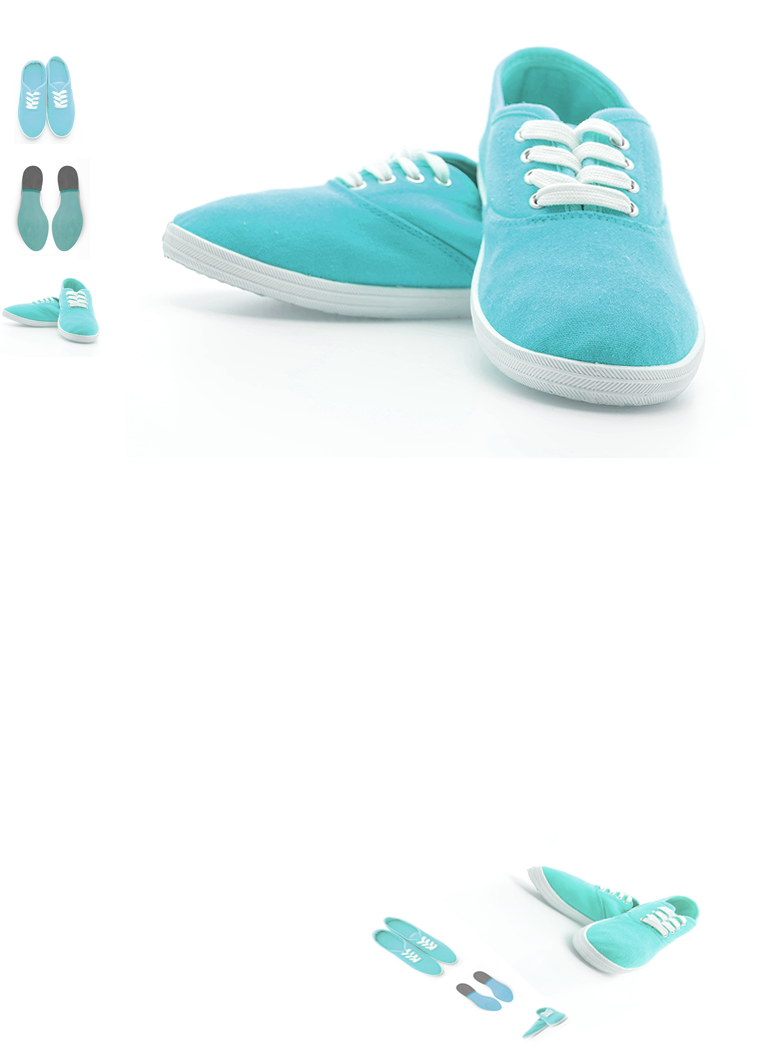
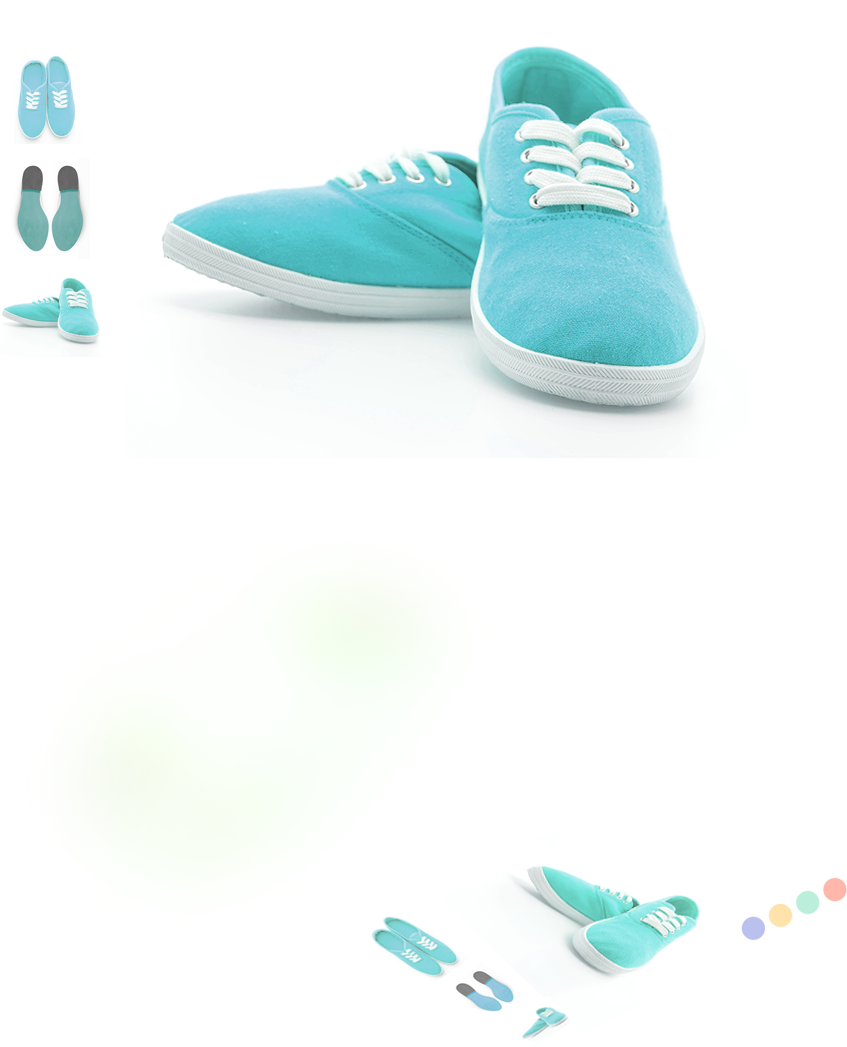
sneakers module nice

diff --git a/assets/js/app.js b/assets/js/app.js
@@ -3,6 +3,8 @@ var colorChangeButton = document.getElementsByClassName('colorChangeButton');
 
 for (var i = 0; i < colorChangeButton.length; i++) {
   colorChangeButton[i].addEventListener('click',(e)=>{
+    stopInter();
+    colorChangeBGautoFun(e);
     for (var i = 0; i < coloredWatches.length; i++) {
       coloredWatches[i].style.opacity = '0';
     };
@@ -13,24 +15,47 @@ for (var i = 0; i < colorChangeButton.length; i++) {
 
 
 var iterWatch = 0;
-setInterval(function () {
-  for (var i = 0; i < coloredWatches.length; i++) {
-    coloredWatches[i].style.opacity = '0';
-  };
-  coloredWatches[iterWatch % 4].style.opacity = '1';
-  colorChangeBGautoFun();
-  iterWatch++;
-}, 2000);
+var intVar;
+function startInter() {
+  intVar =
+  setInterval(function () {
+    for (var i = 0; i < coloredWatches.length; i++) {
+      coloredWatches[i].style.opacity = '0';
+    };
+    coloredWatches[iterWatch % 4].style.opacity = '1';
+    colorChangeBGautoFun();
+    iterWatch++;
+  }, 2000);
+}
+
+var myStopIter;
+function stopInter() {
+  clearInterval(intVar);
+  clearTimeout(myStopIter);
+  myStopIter =
+  setTimeout(function () {
+    startInter();
+  }, 1500);
+}
+
+startInter();
 
 
 // colorChangeBG
 var colorChangeBG = document.getElementsByClassName('colorChangeBG');
 
-function colorChangeBGautoFun() {
+function colorChangeBGautoFun(e) {
   for (var i = 0; i < colorChangeBG.length; i++) {
-    colorChangeBG[i].style.left = '-3vw';
-    colorChangeBG[i].style.top = '-3vw';
+    colorChangeButton[i].style.transform = 'scale(1)';
+    colorChangeButton[i].style.border = '0px solid gray';
   }
-  colorChangeBG[iterWatch % 4].style.top = '-2.5vw';
-  colorChangeBG[iterWatch % 4].style.left = '-2.5vw';
+  if (e) {
+    e.target.style.border = '1px solid gray';
+    e.target.style.transform = 'scale(1.2)';
+    console.log(e.target);
+    return 0;
+  }
+  colorChangeButton[iterWatch % 4].style.transform = 'scale(1.2)';
+  colorChangeButton[iterWatch % 4].style.border = '1px solid gray';
+
 }

diff --git a/assets/css/style.css b/assets/css/style.css
@@ -16,7 +16,7 @@ body {
 .coloredWatches {
   transition: all 1s ease;
   position: absolute;
-  width: 36%;
+  width: 40%;
   top: 10vw;
   left: 36.3vw;
   opacity: 0;
@@ -41,9 +41,17 @@ body {
   border-radius: 50%;
   cursor: pointer;
   /* border: 0.2vw solid #f2dbac; */
+  transition: 0.5s;
+  border: 0px solid gray;
+  box-sizing: border-box;
+}
+.colorChangeButton:hover{
+  transform: scale(1.2) !important;
+  border: 1px solid gray !important;
 }
 
 .colorChangeBG {
+  pointer-events: none;
   position: absolute;
   width: 6.1vw;
   transition: 0.5s ease;
@@ -54,19 +62,19 @@ body {
 }
 
 .red {
-  background: radial-gradient(ellipse at center, rgba(255, 255, 255, 1) -44%, rgba(255, 129, 104, 1) 60%, rgba(10, 89, 93, 1) 100%);
+  background: rgba(255, 129, 104, 1);
 }
 
 .brown {
-  background: radial-gradient(ellipse at center, rgba(255, 255, 255, 1) -44%, rgba(187, 239, 219, 1) 60%, rgba(102, 45, 0, 1) 100%);
+  background: rgba(187, 239, 219, 1);
 }
 
 .purple {
-  background: radial-gradient(ellipse at center, rgba(255, 255, 255, 1) -44%, rgba(255, 227, 171, 1) 60%, rgba(39, 9, 95, 1) 100%);
+  background: rgba(187, 193, 239, 1);
 }
 
 .gray {
-  background: radial-gradient(ellipse at center, rgba(255, 255, 255, 1) -44%, rgba(187, 193, 239, 1) 60%, rgba(51, 51, 51, 1) 100%);
+  background: rgba(255, 227, 171, 1);
 }
 
 .colorChangeBG:hover {
